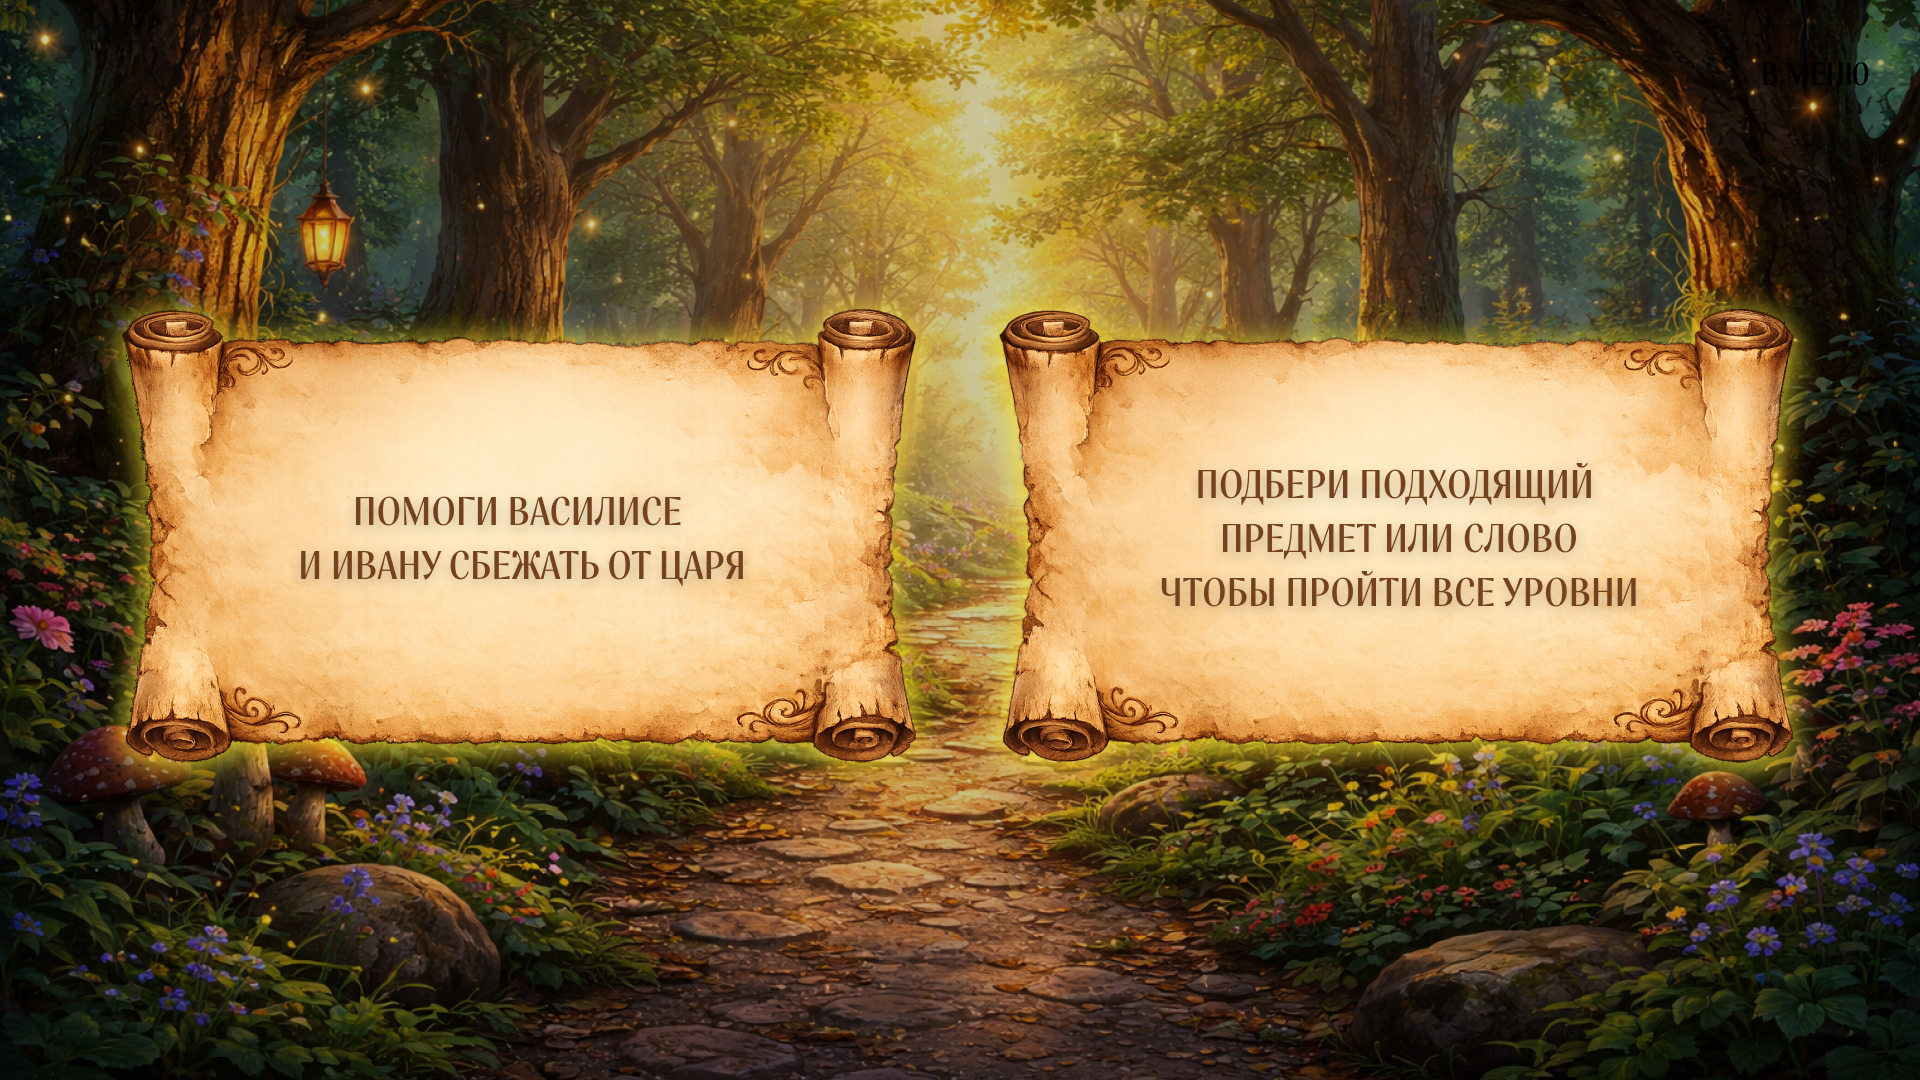
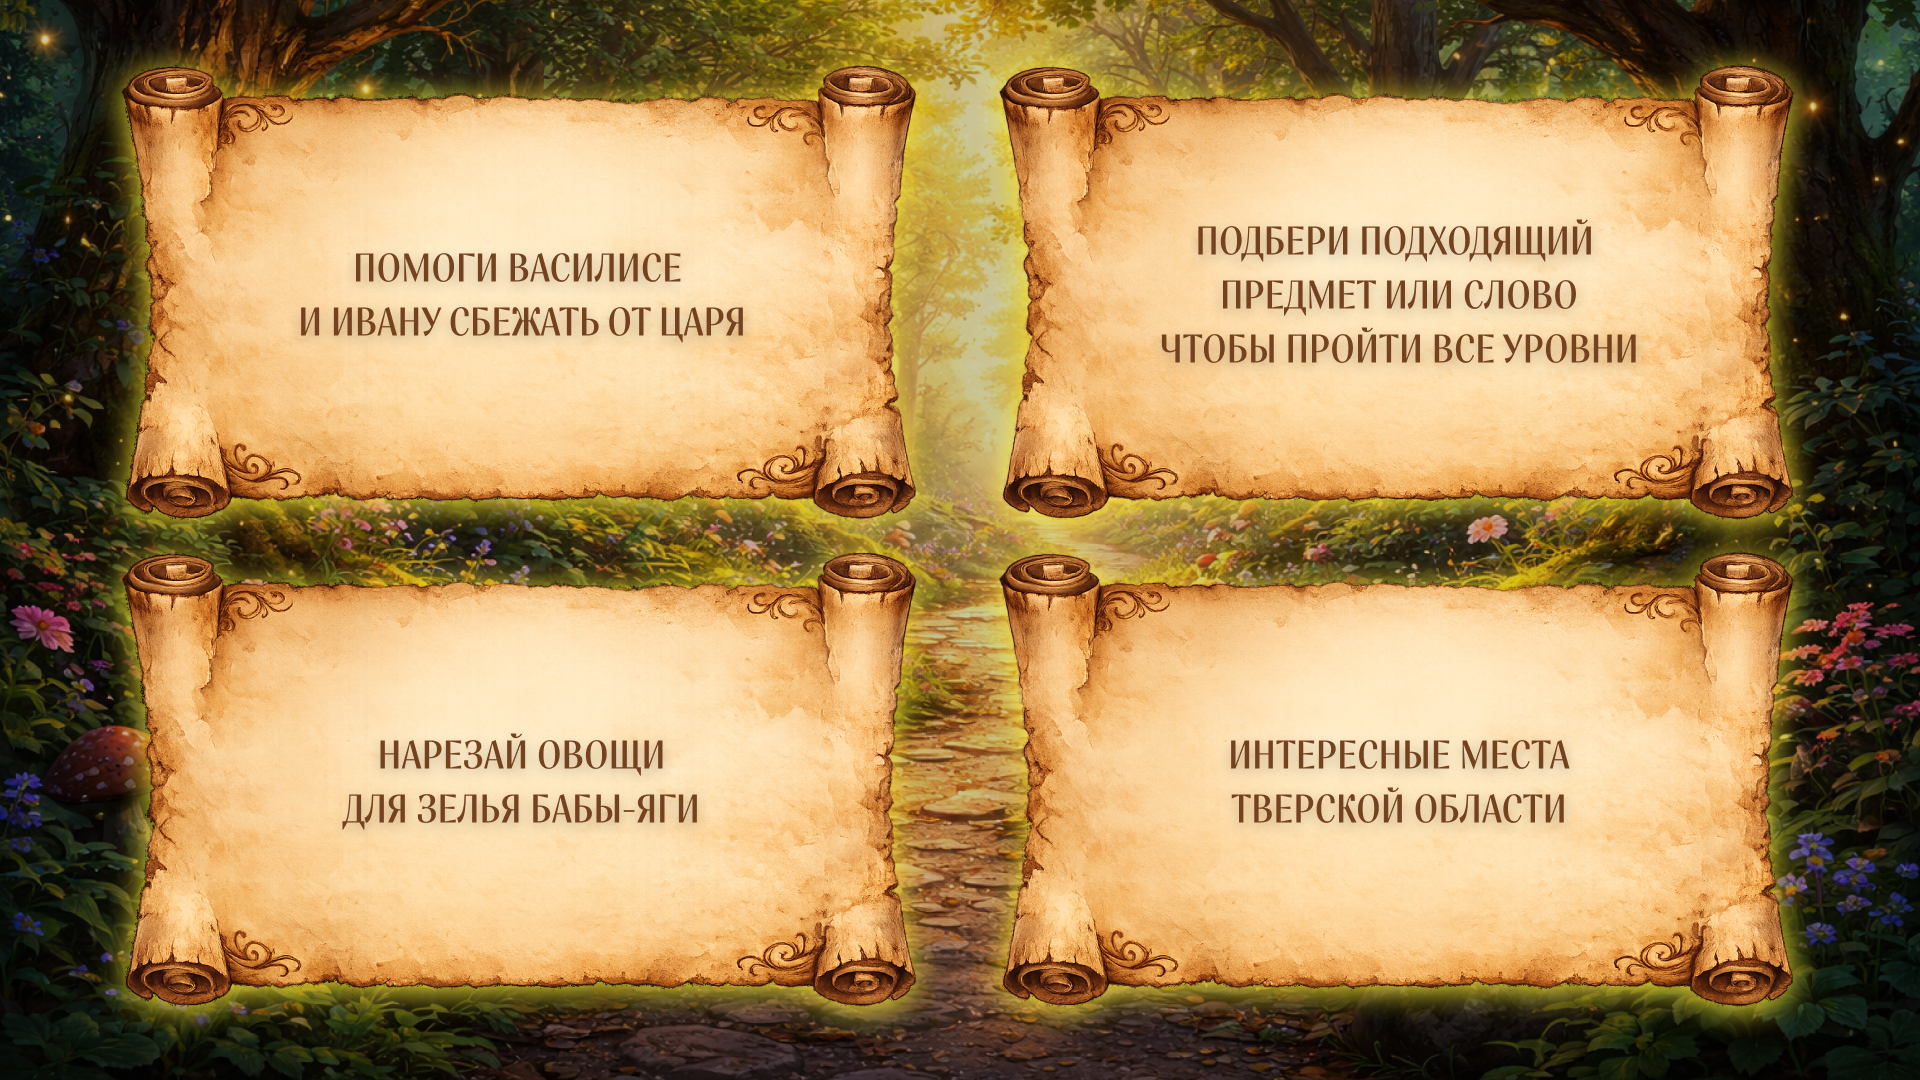
Add files via upload

diff --git a/index.html b/index.html
@@ -45,7 +45,8 @@
         display: flex;
         width: 1600px;
         flex-direction: row;
-        gap: 20px;
+        flex-wrap: wrap;
+        gap: 100px;
         justify-content: space-between;
         margin-top: 20px;
       }
@@ -61,13 +62,34 @@
 
         cursor: pointer;
       }
+      #magicParticles {
+        position: fixed;
+        top: 0;
+        left: 0;
+        width: 100%;
+        height: 100%;
+        z-index: 0; /* важно: под UI */
+        pointer-events: none; /* не мешает кликам */
+      }
+
+      /* твой основной UI должен быть выше */
+      .app,
+      .main,
+      .wrapper {
+        position: relative;
+        z-index: 1;
+      }
     </style>
   </head>
   <body>
+    <canvas id="magicParticles"></canvas>
     <div class="container">
-      <div class="block meteor"></div>
+      <div class="block one"></div>
 
-      <div class="block planet"></div>
+      <div class="block two"></div>
+      <div class="block three"></div>
+
+      <div class="block four"></div>
     </div>
     <script>
       window.addEventListener("mousewheel", function (e) {
@@ -98,14 +120,116 @@
       document.addEventListener("click", (e) => {
         let target = e.target;
         console.log(target);
-        if (target.classList.contains("meteor")) {
+        if (target.classList.contains("one")) {
           window.location.href =
             "https://maxim-prog292.github.io/Help_Vasilisa/";
-        } else if (target.classList.contains("planet")) {
+        } else if (target.classList.contains("two")) {
           window.location.href =
             "https://maxim-prog292.github.io/tale-reality/";
+        } else if (target.classList.contains("three")) {
+          window.location.href = "https://maxim-prog292.github.io/YagaNinja/";
+        } else if (target.classList.contains("four")) {
+          window.location.href = "https://maxim-prog292.github.io/tale-Map/";
         }
       });
+      const canvas = document.getElementById("magicParticles");
+      const ctx = canvas.getContext("2d");
+
+      let particles = [];
+      const PARTICLE_COUNT = 120;
+
+      function resizeCanvas() {
+        canvas.width = window.innerWidth;
+        canvas.height = window.innerHeight;
+      }
+      window.addEventListener("resize", resizeCanvas);
+      resizeCanvas();
+
+      class Particle {
+        constructor() {
+          this.reset();
+        }
+
+        reset() {
+          this.x = Math.random() * canvas.width;
+          this.y = Math.random() * canvas.height;
+
+          this.size = Math.random() * 2 + 0.5;
+
+          this.speedX = (Math.random() - 0.5) * 0.3;
+          this.speedY = Math.random() * -0.5 - 0.2;
+
+          this.opacity = Math.random() * 0.5 + 0.3;
+
+          this.twinkle = Math.random() * 0.02;
+        }
+
+        update() {
+          this.x += this.speedX;
+          this.y += this.speedY;
+
+          // мерцание
+          this.opacity += Math.sin(Date.now() * this.twinkle) * 0.005;
+
+          // если улетела вверх — возвращаем вниз
+          if (this.y < 0) {
+            this.reset();
+            this.y = canvas.height;
+          }
+
+          // легкий "дрейф"
+          if (this.x < 0 || this.x > canvas.width) {
+            this.speedX *= -1;
+          }
+        }
+
+        draw() {
+          ctx.beginPath();
+
+          const gradient = ctx.createRadialGradient(
+            this.x,
+            this.y,
+            0,
+            this.x,
+            this.y,
+            this.size * 4,
+          );
+
+          gradient.addColorStop(0, `rgba(255, 223, 100, ${this.opacity})`);
+          gradient.addColorStop(
+            0.5,
+            `rgba(255, 200, 50, ${this.opacity * 0.6})`,
+          );
+          gradient.addColorStop(1, `rgba(255, 200, 50, 0)`);
+
+          ctx.fillStyle = gradient;
+          ctx.arc(this.x, this.y, this.size * 4, 0, Math.PI * 2);
+          ctx.fill();
+        }
+      }
+
+      // инициализация
+      function init() {
+        particles = [];
+        for (let i = 0; i < PARTICLE_COUNT; i++) {
+          particles.push(new Particle());
+        }
+      }
+
+      // рендер
+      function animate() {
+        ctx.clearRect(0, 0, canvas.width, canvas.height);
+
+        particles.forEach((p) => {
+          p.update();
+          p.draw();
+        });
+
+        requestAnimationFrame(animate);
+      }
+
+      init();
+      animate();
     </script>
   </body>
 </html>
